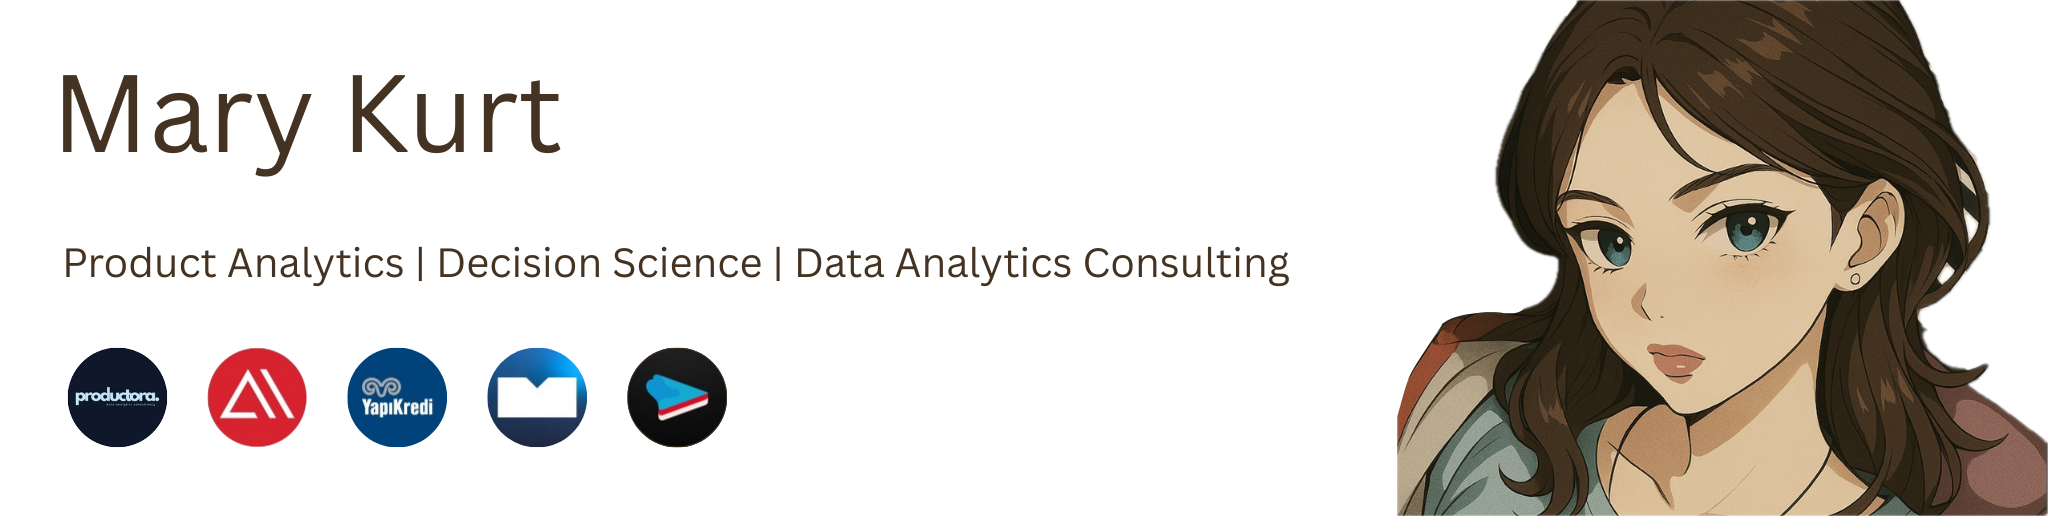
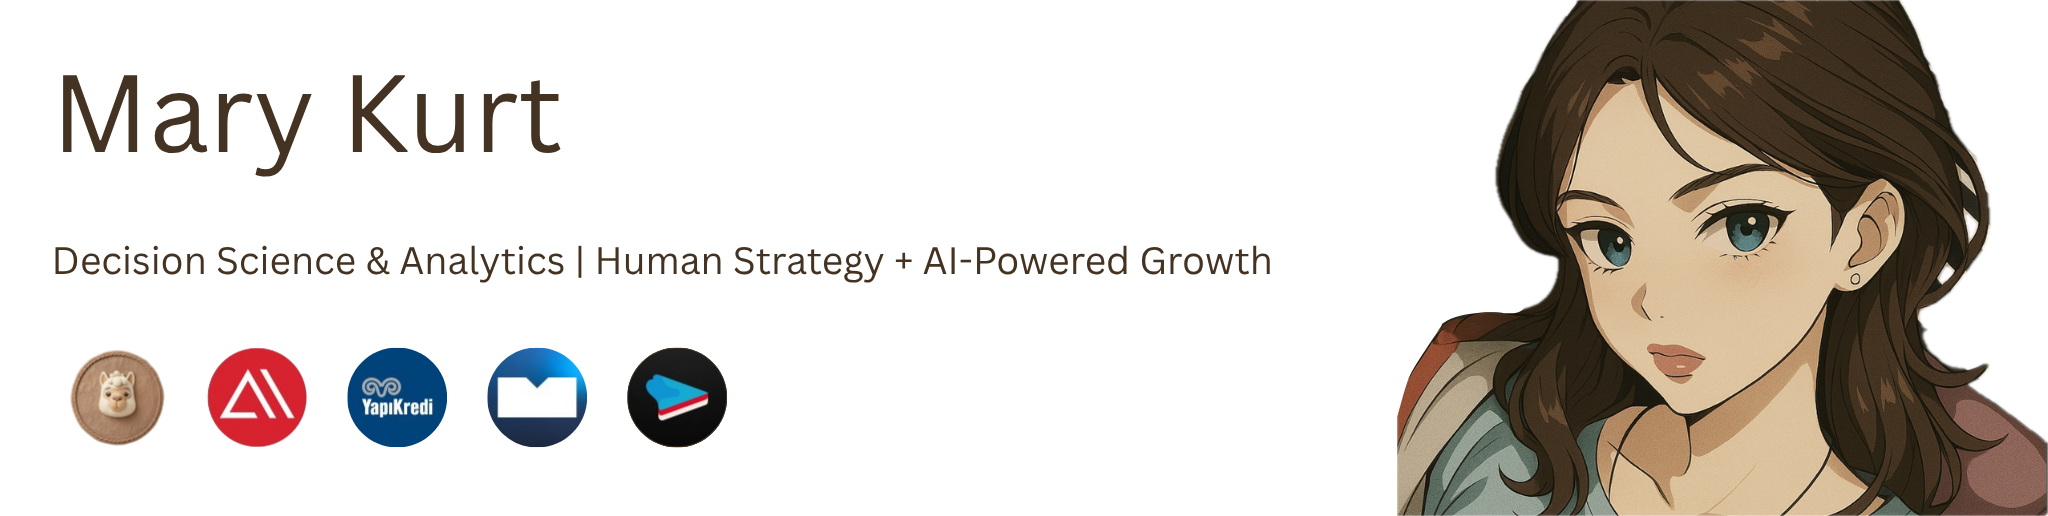
Docs: Update professional bio, project descriptions, and contact information in README

Changed region(s): [[0.0312, 0.4651, 0.625, 0.5581], [0.0312, 0.6512, 0.0938, 0.8682]]

diff --git a/README.md b/README.md
@@ -3,67 +3,70 @@ Hey, you found me ![](https://user-images.githubusercontent.com/18350557/1763097
 
 <img src="avatar.png" alt="Mary Kurt" width="100%" />
 
-I run [**Productora**](https://www.productora.co/), a one-person product analytics studio powered by AI agents.
+I build analytical systems, AI-native workflows, and digital products.
 
-I specialize in structuring ambiguous ideas into measurable frameworks not just analyzing data, but designing the questions that drive clarity.
-
----
-
-### ⚡ What I Do
-
-* Turn business problems into data questions  
-* Build structured analytical processes around abstract ideas  
-* Discover insights through statistical modeling and behavioral analysis  
-* Deliver clarity, not just dashboards
+I run [**Productora**](https://www.productora.co/), and I also work across research, experimentation, growth systems, automation, and product engineering to turn ambiguous ideas into measurable, usable systems.
 
 ---
 
-### 🛠 Vibe Engineering
+### What I Do
 
- I practice what's often called [vibe engineering](https://www.productora.co/blog/vibe-coding-to-engineering); building fast, delightful systems that feel as good as they function. My current tools of choice are Next.js, Supabase, and Vercel, and I'm heads-down crafting Second Brain, an AI-native knowledge app. Also a Bun enjoyer.
+* Turn ambiguous ideas into structured systems  
+* Build analytics, experimentation, growth systems, and validation workflows  
+* Design AI-native products and operational infrastructure  
+* Combine research thinking, product sense, and technical execution
 
 ---
 
-### 🚀 Product Portfolio
+### How I Work
+
+I like building structure where things are still messy: early-stage ideas, unclear problem spaces, scattered signals, and systems that need to become usable.
+
+My work usually brings together product thinking, analytics, growth systems, experimentation, documentation, and implementation across web, mobile, automation, and AI-assisted workflows.
+
+---
+
+### Selected Work
 
 #### Second Brain
 [![Second Brain](https://img.shields.io/badge/Second%20Brain-Next.js-black?style=for-the-badge&logo=next.js&logoColor=white)](https://second-brain-pkm.vercel.app/dashboard)
 
-Second Brain is an AI-powered knowledge platform for polymaths to record daily thoughts, visualize idea networks, and surface deep insights through automatic tagging, voice transcription, and intelligent diagrams with Pro features like AI-powered insights and pattern detection now in early access, email me if you’d like to be added before payment rolls out.
+An AI-native knowledge platform for capturing thoughts, mapping idea networks, and surfacing patterns through structured inputs, voice, and intelligent organization.
 
 #### Bestseller Analytics
 [![Bestseller Analytics](https://img.shields.io/badge/Bestseller%20Analytics-Next.js-black?style=for-the-badge&logo=next.js&logoColor=white)](https://bestseller-anatomy.vercel.app/)
 
-The platform showcases insights from 2024's bestselling fiction and lets users upload manuscripts for chapter-level analysis across emotion, pacing, tension and sensory detail to reveal the story's structure, style and overall impact with a bestseller prediction module coming soon.
+A manuscript analysis product that breaks fiction into measurable signals like emotion, pacing, tension, and sensory detail to make narrative structure easier to study.
 
 #### ETF Analytics
 [![ETF Analytics](https://img.shields.io/badge/ETF%20Analytics-Next.js-black?style=for-the-badge&logo=next.js&logoColor=white)](https://v0-data-dashboard-design-iota.vercel.app/)
 
-An interactive dashboard that tracks real-time ETF prices, trend history, and AI-powered news sentiment - while surfacing top performers, visualizing risk-return, and comparing category performance over time in a clean, insight-focused interface with additional capabilities coming soon.
+A market intelligence dashboard combining ETF price tracking, category comparison, risk-return analysis, and AI-assisted sentiment signals in a focused decision interface.
 
 #### AutoML Pipeline
 [![AutoML Pipeline](https://img.shields.io/badge/AutoML%20Pipeline-Streamlit-FF4B4B?style=for-the-badge&logo=streamlit&logoColor=white)](https://insighter.streamlit.app/)
 
-The platform allows users to quickly view a profile of their uploaded dataset and visualize it interactively, and for datasets suitable for classification problems, further allows them to identify and download the best-performing model for their prediction target, with regression problem capabilities coming soon.
+An automated machine learning workflow for profiling datasets, exploring them visually, and identifying strong classification models with minimal setup.
 
 ---
 
-### ✨ Personal Vibe
+### Personal Vibe
 
 * Istanbul based, globally curious 
-* Highly visual, highly structural mind
-* Systems thinking meets first principles, that's how I work
+* Pattern-seeking, structure-building mind
+* Systems thinking meets first principles
 
 ---
 
-### ✉ Contact Me
+### Contact Me
 
-* Gmail: [ytu.iremkurt@gmail.com](mailto:ytu.iremkurt@gmail.com)
+* Work: [contact@productora.co](mailto:contact@productora.co)
+* Personal: [ytu.iremkurt@gmail.com](mailto:ytu.iremkurt@gmail.com)
 * LinkedIn: [linkedin.com/in/ytu-iremkurt](https://www.linkedin.com/in/ytu-iremkurt/)
 
 ---
 
-### 🧠 Tech Stack
+### Tech Stack
 
 <p align="left">
 <a href="https://nextjs.org/" target="_blank" rel="noreferrer"><img src="https://raw.githubusercontent.com/danielcranney/readme-generator/main/public/icons/skills/nextjs-dark.svg" width="36" height="36" alt="Next.js" /></a>
@@ -78,9 +81,8 @@ The platform allows users to quickly view a profile of their uploaded dataset an
 
 ---
 
-### 🎯 GitHub Stats
+### GitHub Stats
 
 <div align="left">
   <img src="https://github-readme-streak-stats.herokuapp.com/?user=violettance&theme=dark&hide_border=true" alt="GitHub Streak" />
 </div>
-
